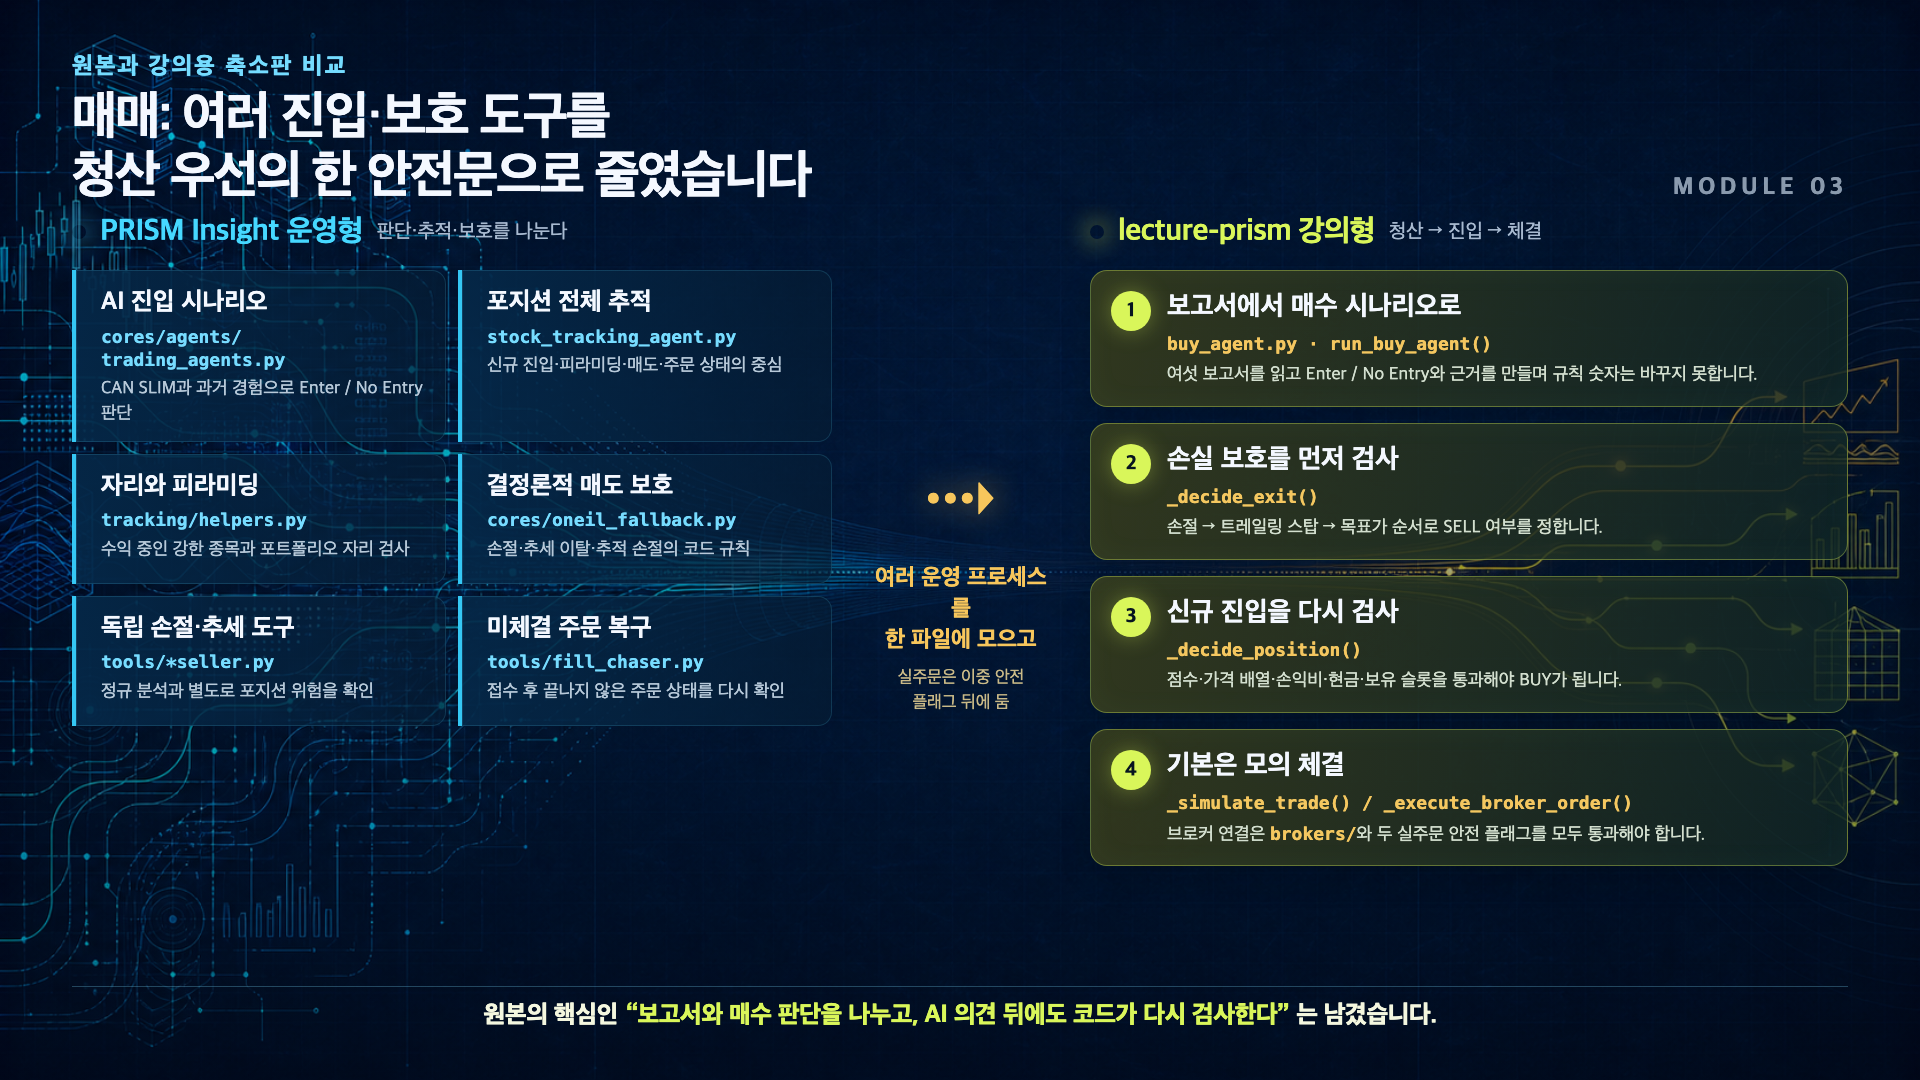
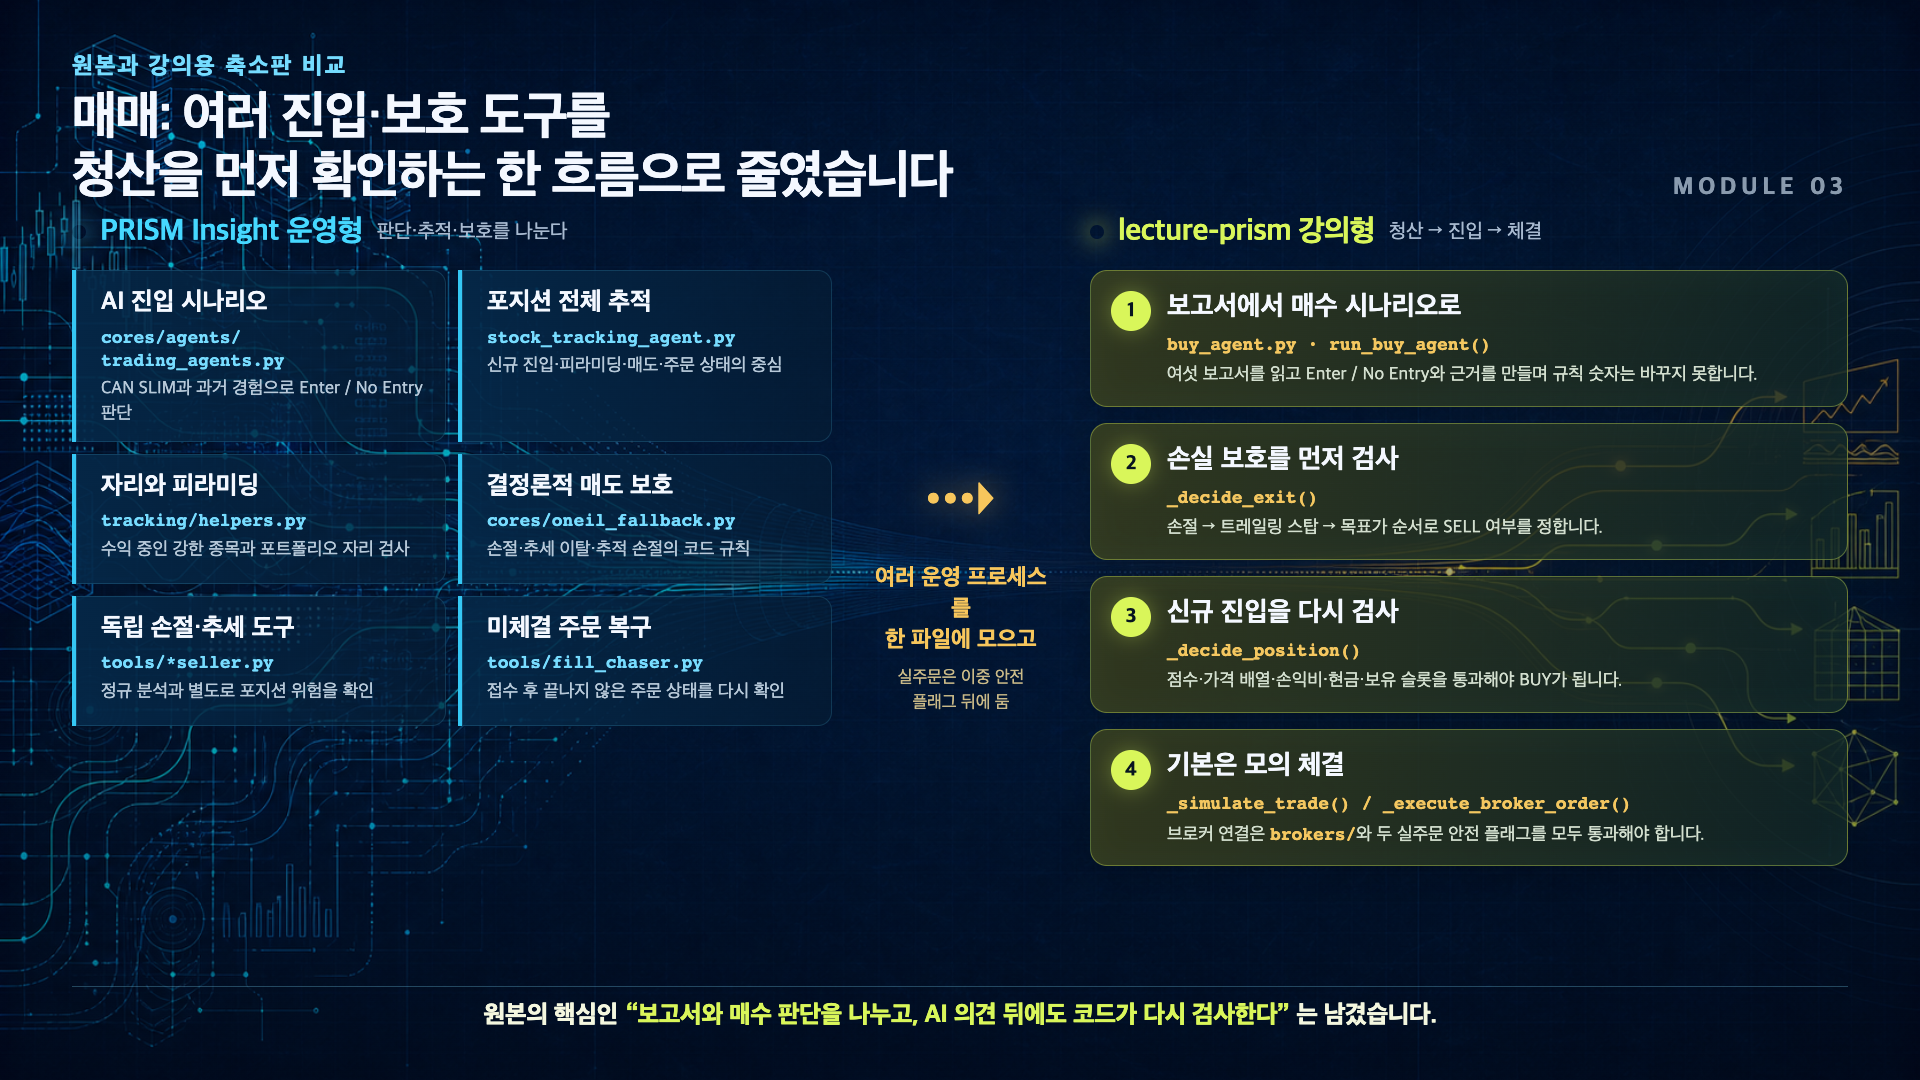
수강생이 주문 판단을 자연스러운 말로 읽게 한다
모듈 3의 번역투 표현을 실제 투자자가 쓰는 말로 바꾸고, 같은 용어가 들어간 비교 이미지와 강사 스크립트도 함께 맞췄다.

Constraint: 손익비 1.0과 최소 1.5라는 판단 근거는 그대로 유지해야 함
Rejected: 코드 안전문 표현 유지 | 비개발자에게 뜻이 바로 전달되지 않고 한국어가 부자연스러움
Confidence: high
Scope-risk: narrow
Directive: 발표 문구를 바꿀 때 렌더 이미지 안의 같은 용어도 함께 검색할 것
Tested: 486개 unittest 통과; 파트 3 38쪽 960x540 렌더; 21·28쪽 시각 검수; 비교 이미지 1920x1080 확인
Not-tested: 실제 강의실에서의 구두 반응

diff --git a/강의자료/파트3_슬라이드.html b/강의자료/파트3_슬라이드.html
@@ -561,22 +561,22 @@
       <div class="d">기대 수익과 감수할 손실이 같습니다.</div>
     </div>
     <div class="step" style="border-color:#5ecf9a;">
-      <div class="n">코드 안전문</div>
+      <div class="n">주문 전 조건</div>
       <div class="t" style="color:#5ecf9a;">최소 1.5</div>
-      <div class="d">이 기준보다 낮으면 BUY여도 주문하지 않습니다.</div>
+      <div class="d">손익비가 1.5보다 낮으면 AI가 BUY를 줘도 주문하지 않습니다.</div>
     </div>
     <div class="step" style="border-color:#5f6680;">
       <div class="n">A</div>
       <div class="t">주문한다</div>
-      <div class="d">AI 8점을 믿고 진행한다.</div>
+      <div class="d">AI의 BUY 8점을 따른다.</div>
     </div>
     <div class="step" style="border-color:#5ecf9a; background:#10231d;">
       <div class="n">B</div>
       <div class="t">보류한다</div>
-      <div class="d">코드 안전문을 우선한다.</div>
+      <div class="d">손익비 기준에 따라 주문을 보류한다.</div>
     </div>
   </div>
-  <div class="takeaway">A와 B 중 하나를 고릅니다. 실제 종목 추천이 아닌 연습 사례이며, 실행 결과는 아직 공개하지 않습니다.</div>
+  <div class="takeaway">수업을 위해 만든 가상 사례입니다. 여러분이라면 주문할지 보류할지 골라보세요. 실제 실행 결과는 잠시 뒤 확인합니다.</div>
   <div class="pagenum">21</div>
 </section>
 
@@ -637,7 +637,7 @@
 <section data-slide-id="P3-S28" class="slide comparison-slide" id="p3-s28">
   <div class="txt">
     <div class="kicker">원본과 강의용 축소판 비교</div>
-    <h2>매수 에이전트의 의견 뒤에 코드 안전문을 둡니다</h2>
+    <h2>AI가 매수를 제안해도 코드가 주문 조건을 다시 확인합니다</h2>
   </div>
   <div class="img">
     <img class="reference-shot comparison-shot" src="assets/lecture-compare-trading.png" alt="PRISM Insight 매매·보호 도구와 lecture-prism buy_agent.py 및 trading.py 비교">

diff --git a/강의자료/deck-src/part3/04-guided-practice.html b/강의자료/deck-src/part3/04-guided-practice.html
@@ -31,22 +31,22 @@
       <div class="d">기대 수익과 감수할 손실이 같습니다.</div>
     </div>
     <div class="step" style="border-color:#5ecf9a;">
-      <div class="n">코드 안전문</div>
+      <div class="n">주문 전 조건</div>
       <div class="t" style="color:#5ecf9a;">최소 1.5</div>
-      <div class="d">이 기준보다 낮으면 BUY여도 주문하지 않습니다.</div>
+      <div class="d">손익비가 1.5보다 낮으면 AI가 BUY를 줘도 주문하지 않습니다.</div>
     </div>
     <div class="step" style="border-color:#5f6680;">
       <div class="n">A</div>
       <div class="t">주문한다</div>
-      <div class="d">AI 8점을 믿고 진행한다.</div>
+      <div class="d">AI의 BUY 8점을 따른다.</div>
     </div>
     <div class="step" style="border-color:#5ecf9a; background:#10231d;">
       <div class="n">B</div>
       <div class="t">보류한다</div>
-      <div class="d">코드 안전문을 우선한다.</div>
+      <div class="d">손익비 기준에 따라 주문을 보류한다.</div>
     </div>
   </div>
-  <div class="takeaway">A와 B 중 하나를 고릅니다. 실제 종목 추천이 아닌 연습 사례이며, 실행 결과는 아직 공개하지 않습니다.</div>
+  <div class="takeaway">수업을 위해 만든 가상 사례입니다. 여러분이라면 주문할지 보류할지 골라보세요. 실제 실행 결과는 잠시 뒤 확인합니다.</div>
   <div class="pagenum">21</div>
 </section>
 
@@ -114,7 +114,7 @@
 <section class="slide comparison-slide" id="p3-s28">
   <div class="txt">
     <div class="kicker">원본과 강의용 축소판 비교</div>
-    <h2>매수 에이전트의 의견 뒤에 코드 안전문을 둡니다</h2>
+    <h2>AI가 매수를 제안해도 코드가 주문 조건을 다시 확인합니다</h2>
   </div>
   <div class="img">
     <img class="reference-shot comparison-shot" src="assets/lecture-compare-trading.png" alt="PRISM Insight 매매·보호 도구와 lecture-prism buy_agent.py 및 trading.py 비교">

diff --git a/강의자료/assets/comparison-src/module-comparisons.html b/강의자료/assets/comparison-src/module-comparisons.html
@@ -118,7 +118,7 @@
 
 <article class="canvas" data-module="trading">
   <header class="header">
-    <div><div class="eyebrow">원본과 강의용 축소판 비교</div><h1>매매: 여러 진입·보호 도구를<br>청산 우선의 한 안전문으로 줄였습니다</h1></div>
+    <div><div class="eyebrow">원본과 강의용 축소판 비교</div><h1>매매: 여러 진입·보호 도구를<br>청산을 먼저 확인하는 한 흐름으로 줄였습니다</h1></div>
     <div class="module-no">MODULE 03</div>
   </header>
   <div class="comparison">

diff --git a/tests/test_part3_deck_contract.py b/tests/test_part3_deck_contract.py
@@ -129,9 +129,10 @@ class Part3DeckContractTests(unittest.TestCase):
             "최소 1.5",
             "주문한다",
             "보류한다",
-            "실제 종목 추천이 아닌 연습 사례",
+            "수업을 위해 만든 가상 사례",
         ):
             self.assertIn(phrase, scenario)
+        self.assertNotIn("안전문", self.sources)
 
         shifted_assets = {
             "P3-S22": "can-slim-company-supply-checks.png",

diff --git a/tests/test_part3_student_learning_contract.py b/tests/test_part3_student_learning_contract.py
@@ -124,6 +124,7 @@ class Part3StudentLearningContractTest(unittest.TestCase):
             "내 안전선 한 문장",
         ):
             self.assertIn(learner_action, self.instructor)
+        self.assertNotIn("안전문", self.instructor)
 
     def test_instructor_has_project_answer_anchors_after_pair_talk(self):
         self.assertEqual(

diff --git a/강의자료/강사용_실습진행_스크립트.md b/강의자료/강사용_실습진행_스크립트.md
@@ -317,7 +317,7 @@ P3-S37에서 한 번만 보여 준다.
 >
 > 자동매매는 장 시작 때 한 번 실행했다고 끝나지 않습니다. `operations.py`가 분석 배치, 보유종목 감시, 미체결 주문 대사를 각각 한 번씩 실행할 수 있게 했습니다. 수업에서는 예약 실행을 켜지 않고, 안전한 일회성 명령만 봅니다.
 
-**수강생 행동:** 프롬프트 파일에서 [P3-M3](../lecture/exercises/수강생_붙여넣기_프롬프트_파트3.md#p3-m3--tradingpy와-운영-루프를-묻고-실행하기)의 코드 블록 전체를 붙여넣는다. 이제 처음으로 `buy_agent.py`의 의견과 `trading.py`의 실행 안전문을 함께 확인한다.
+**수강생 행동:** 프롬프트 파일에서 [P3-M3](../lecture/exercises/수강생_붙여넣기_프롬프트_파트3.md#p3-m3--tradingpy와-운영-루프를-묻고-실행하기)의 코드 블록 전체를 붙여넣는다. 이제 처음으로 `buy_agent.py`의 의견과 `trading.py`의 주문 전 안전 조건을 함께 확인한다.
 
 **증거 공개:** 테스트에서는 BUY 8점이어도 손익비가 1.0이면 주문을 만들지 않는다. HOLD라면 점수가 10점이어도 주문을 만들지 않는다. `trading.py --exit`은 손절·트레일링 스탑·목표가 도달을 서로 다른 청산 결과로 보여 준다.
 

diff --git a/강의자료/deck-src/part3-index.md b/강의자료/deck-src/part3-index.md
@@ -31,7 +31,7 @@
 | P3-S25 | — | `part3/04-guided-practice.html` | 수익 중인 강한 종목만 추가 진입을 검토합니다 |
 | P3-S26 | — | `part3/04-guided-practice.html` | 매도는 손실 제한부터 확인합니다 |
 | P3-S27 | — | `part3/04-guided-practice.html` | 보조 감시 루프가 포지션을 따로 지킵니다 |
-| P3-S28 | — | `part3/04-guided-practice.html` | 매수 에이전트의 의견 뒤에 코드 안전문을 둡니다 |
+| P3-S28 | — | `part3/04-guided-practice.html` | AI가 매수를 제안해도 코드가 주문 조건을 다시 확인합니다 |
 | P3-S29 | — | `part3/04-guided-practice.html` | 브로커가 주문을 받았다고 매매가 끝난 것은 아닙니다 |
 | P3-S30 | P3-M3 | `part3/04-guided-practice.html` | 프롬프트 파일에서 P3-M3 블록 전체를 복사합니다 |
 | P3-S31 | — | `part3/05-bridge.html` | 어제 손절한 종목이 오늘 다시 떴습니다. 다시 사도 될까요? |
